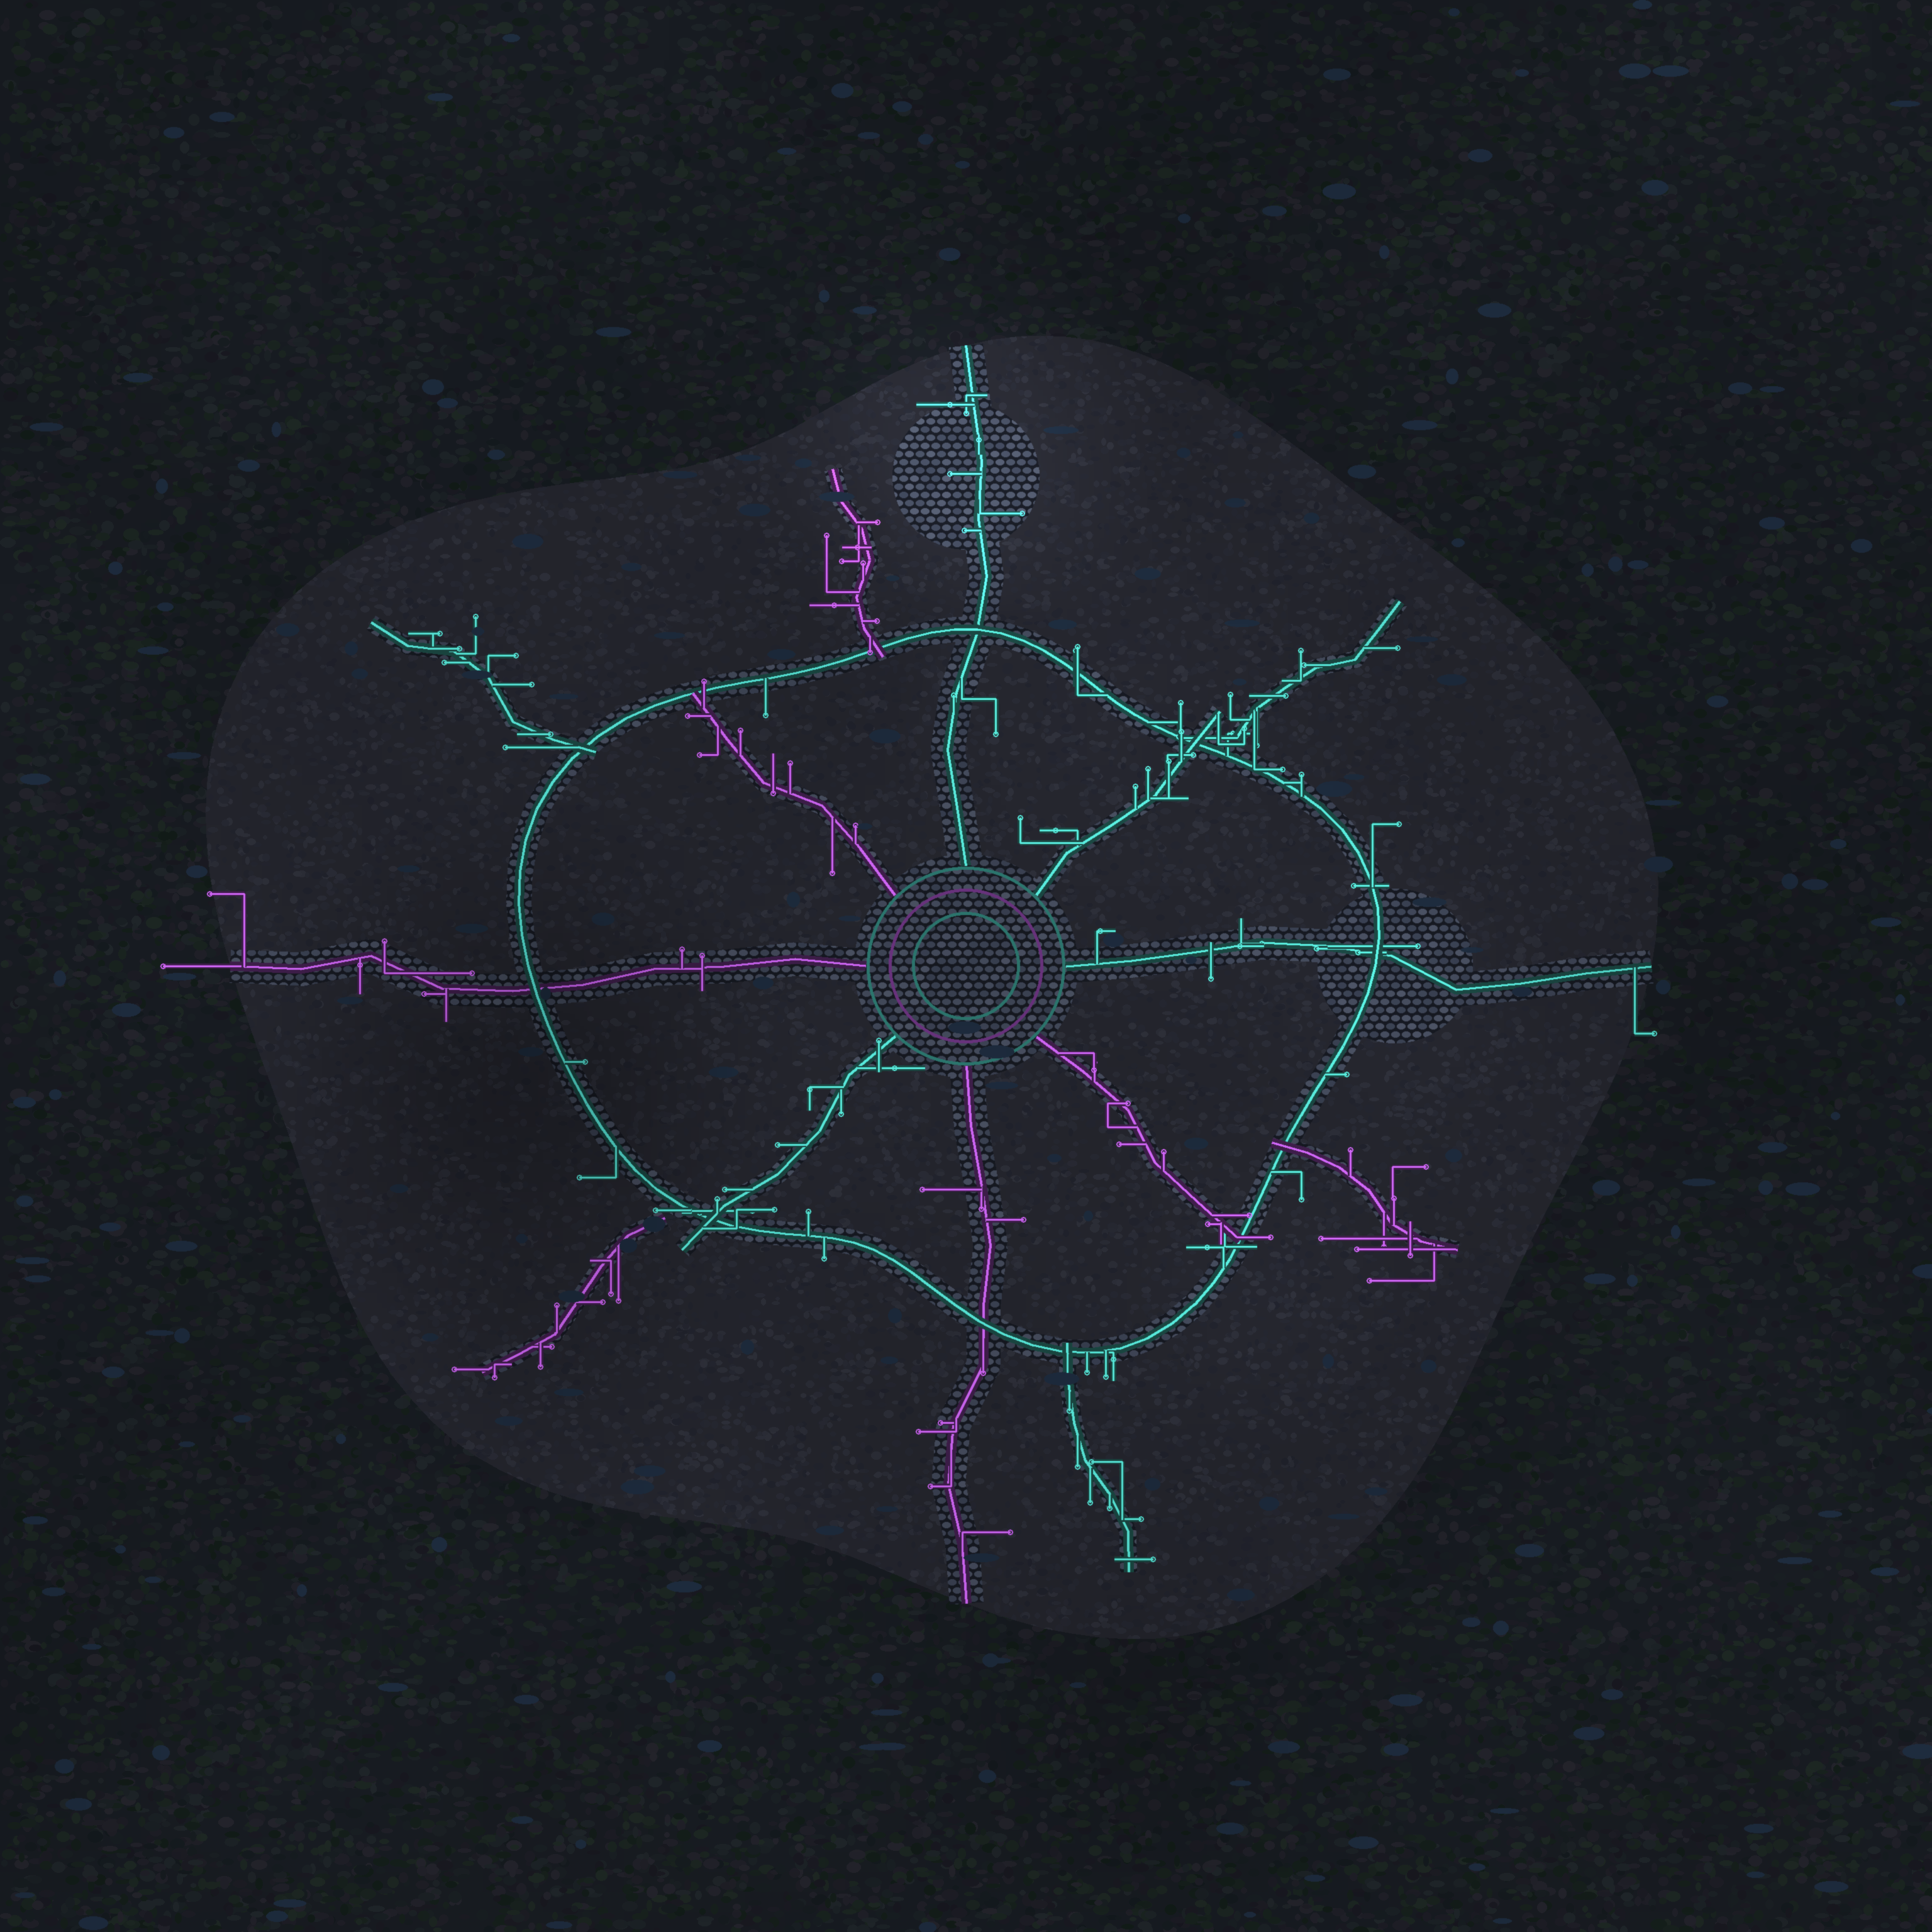
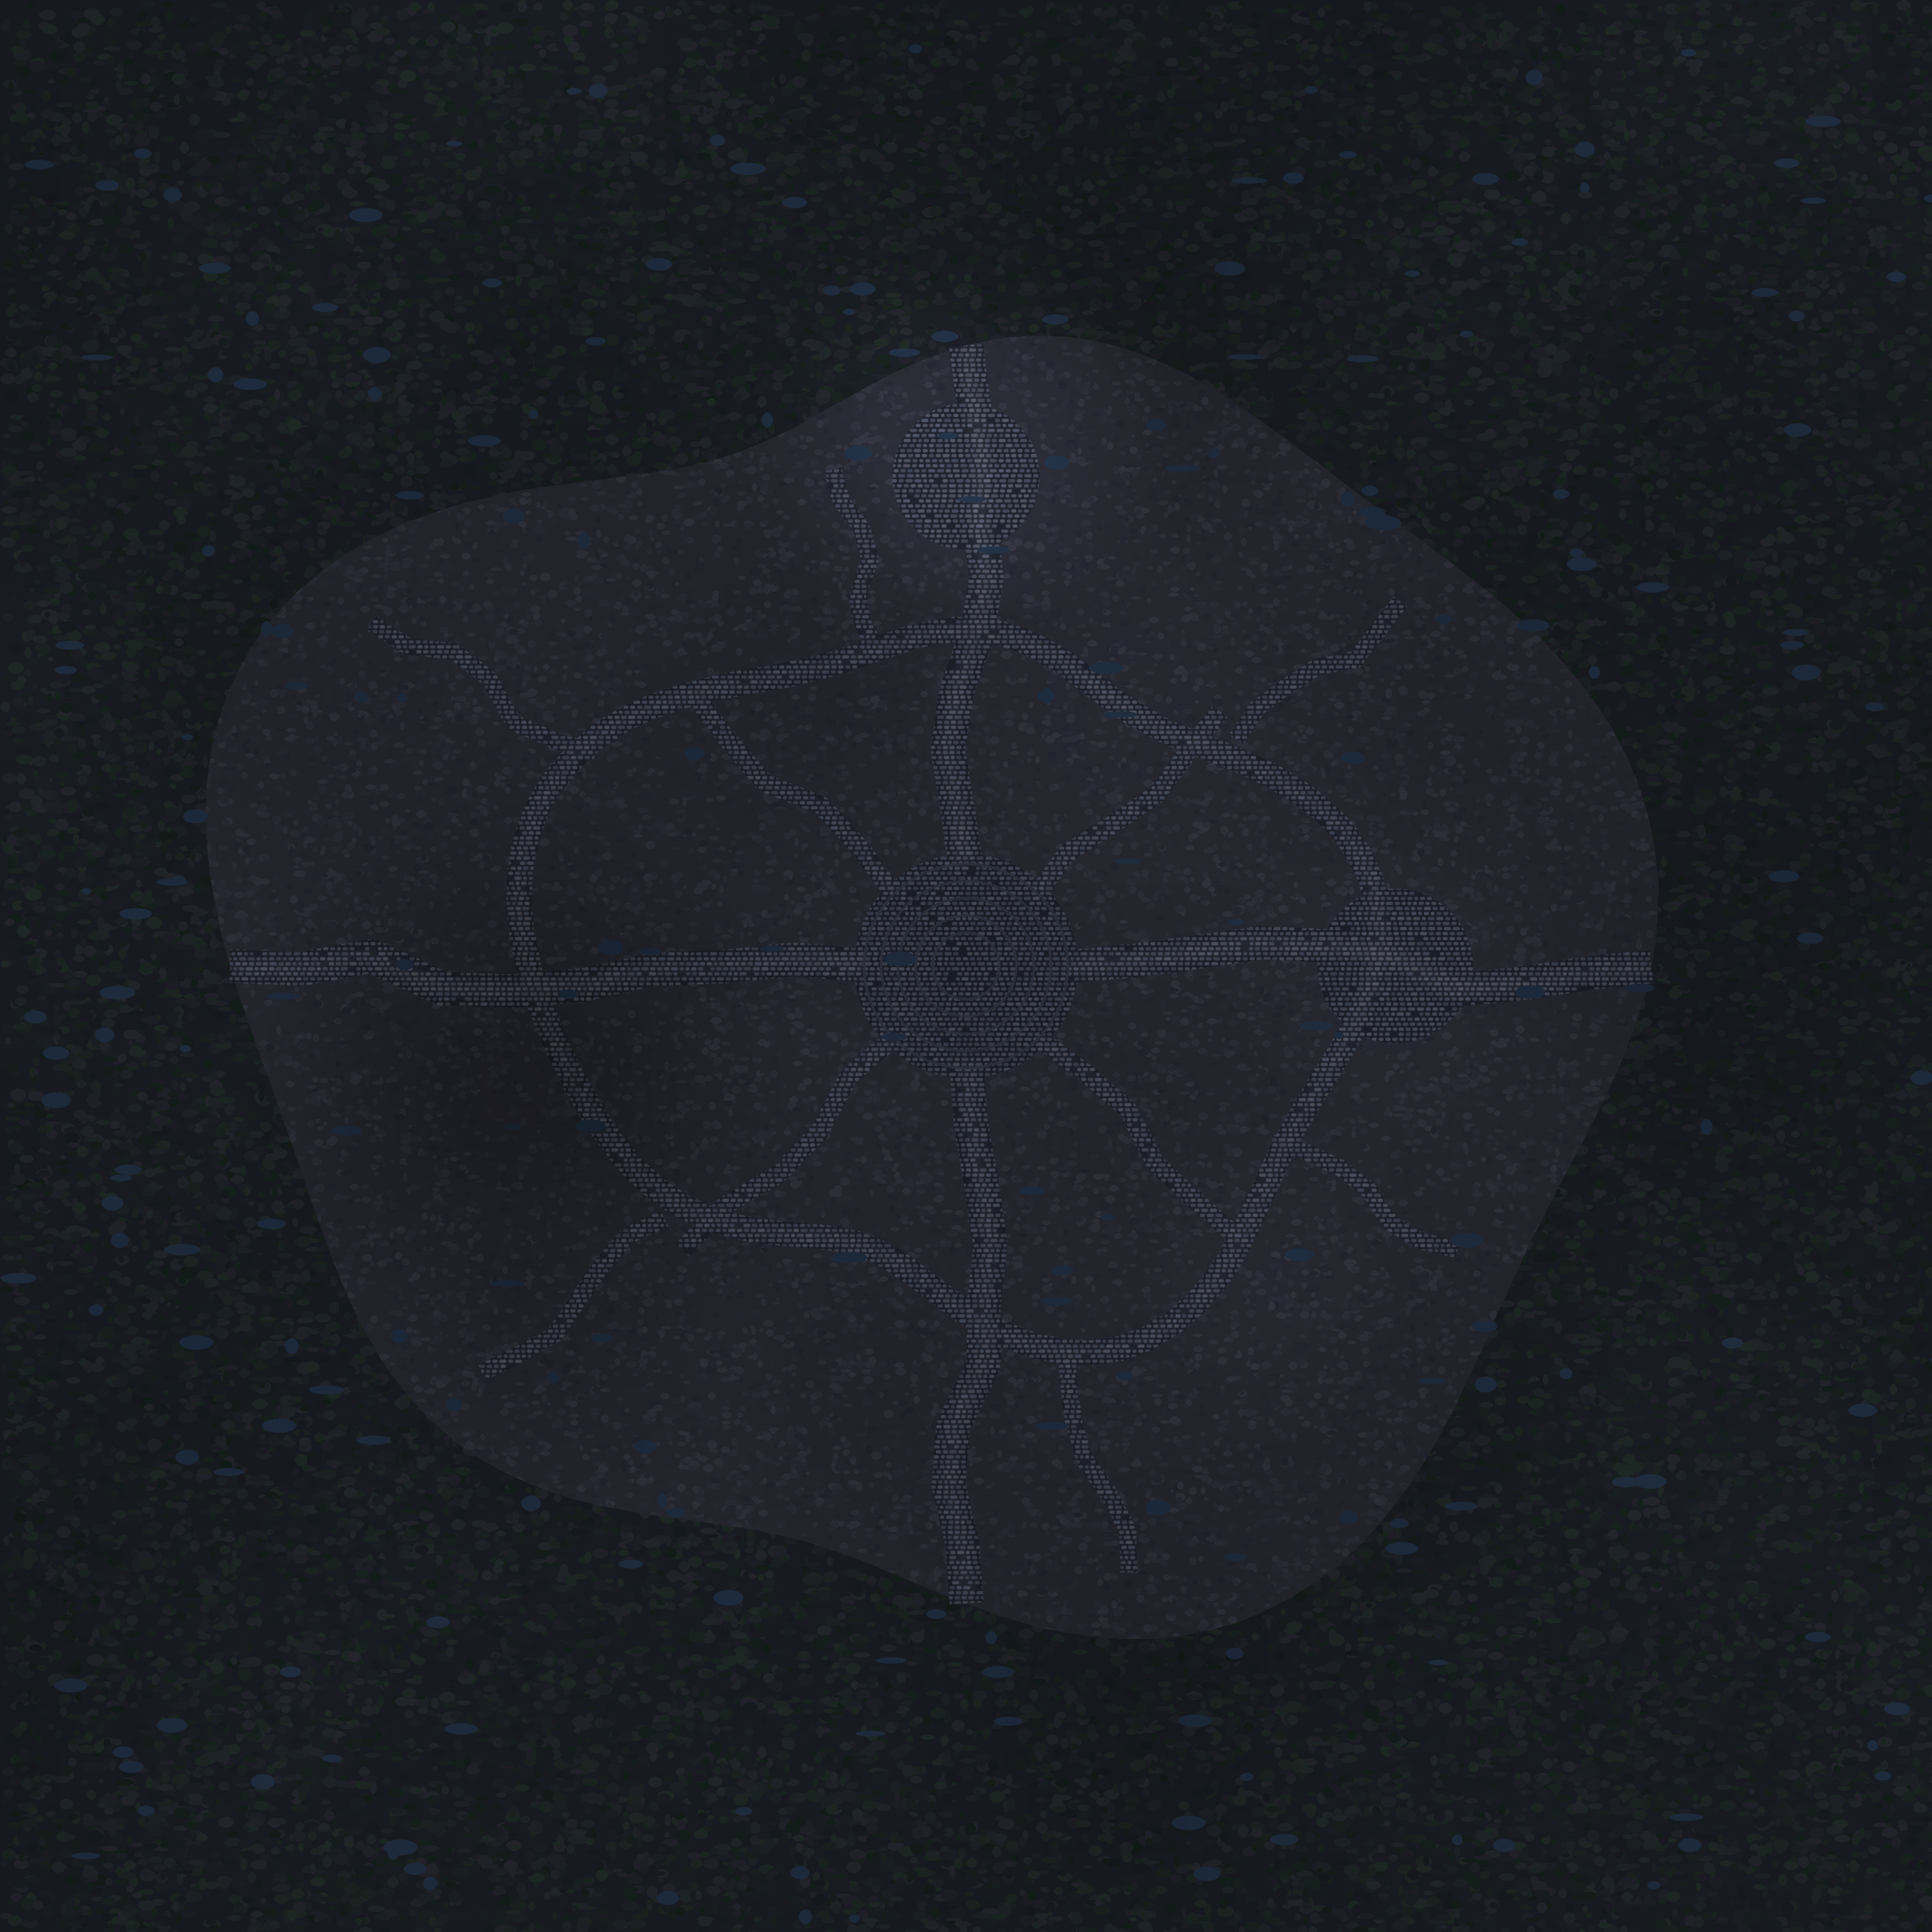
Nexarch v4 part 1: cobblestone-only streets, market kiosks, more junk
- Removed all neon circuit traces and glyph rings from the ground texture;
  streets are now offset stone courses with worn centerlines, plaza gets
  carved slab rings instead of glowing ones
- New kiosk piece from the style reference (timber booth, counter goods,
  big tilted circuit-panel awning with neon trim) - 5 placed around the
  market square; new e_waste prop (dead cases, cracked screen, flickering
  panel) scattered kerbside and next to server racks
- Denser clutter pass: 295 props, cables now span the ring road and
  avenues too, more barrels/crates, extra rubble in Dark Alley

Re-render of nexarch-bake.jpg lands in the follow-up commit.

https://claude.ai/code/session_01UFAE6W3Bz5GuggtQfrHjtr

diff --git a/scripts/blender/nexarch-kit/gen_layout.py b/scripts/blender/nexarch-kit/gen_layout.py
@@ -222,8 +222,12 @@ landmark("vault", 150, -150, face(150, -150, 0, 0), "FAMILY VAULT", 12)
 landmark("gate", -250, 0, math.radians(90), "DEEP MINES", 16)
 
 labels.append({"name": "MARKET", "x": 200, "z": 0})
-for (mx, mz) in [(184, -18), (216, -14), (186, 16), (214, 18), (200, -32), (228, 2)]:
-    place("stall", mx, mz, random.uniform(0, 2 * math.pi))
+for (mx, mz) in [(182, -20), (218, -16), (184, 18), (216, 20), (234, 2)]:
+    place("kiosk", mx, mz, face(mx, mz, 200, 0) + random.uniform(-0.2, 0.2),
+          sink=0.3)
+    blockers.append((mx, mz, 6.0))
+for (mx, mz) in [(200, -34), (170, 2)]:
+    place("stall", mx, mz, face(mx, mz, 200, 0))
     blockers.append((mx, mz, 6.5))
 
 labels.append({"name": "DARK ALLEY", "x": -200, "z": 200})
@@ -326,7 +330,8 @@ for _ in range(2600):
         n_fill += 1
 
 # ---------------------------------------------------------------- clutter
-SMALL = [("crate", 1.2, 3), ("barrel", 1.0, 3), ("sacks", 1.3, 2), ("rubble", 2.0, 1)]
+SMALL = [("crate", 1.2, 3), ("barrel", 1.0, 4), ("sacks", 1.3, 2),
+         ("rubble", 2.0, 1), ("e_waste", 1.8, 3)]
 
 
 def pick_small():
@@ -348,8 +353,8 @@ for r in ROADS:
         nx, nz = -uz, ux
         t = 0.0
         while t < segL:
-            t += random.uniform(18, 34)
-            if random.random() < 0.62:
+            t += random.uniform(12, 24)
+            if random.random() < 0.85:
                 name, rad = pick_small()
                 side = random.choice((-1, 1))
                 off = r["w"] / 2 + rad + random.uniform(0.2, 1.4)
@@ -416,11 +421,12 @@ for (hx, hz, hrot, hrad) in street_houses[64:116]:
         blockers.append((sx_, sz_, 1.2))
         n_clutter += 1
 
-# cables strung across the narrow alleys
-for r in ROADS[5:11]:
+# cables strung across streets (alleys often, ring + avenues sometimes)
+for ri, r in enumerate(ROADS[:11]):
     p = r["pts"]
+    prob = 0.8 if ri >= 5 else 0.25
     for i in range(1, len(p) - 1, 2):
-        if random.random() < 0.6:
+        if random.random() < prob:
             x0, z0 = p[i]
             x1, z1 = p[i + 1]
             L = math.hypot(x1 - x0, z1 - z0) or 1
@@ -428,8 +434,16 @@ for r in ROADS[5:11]:
             place("cable_span", x0, z0, tang + math.pi / 2, sink=0.0)
             n_clutter += 1
 
+# broken hardware next to some server racks
+for pl in [p for p in placements if p["p"] == "server_rack"][::3]:
+    ex, ez = pl["x"] + random.uniform(-3, 3), pl["z"] + random.uniform(-3, 3)
+    if road_dist(ex, ez) > 0.3 and not blocked(ex, ez, 1.6, 0.8):
+        place("e_waste", ex, ez, random.uniform(0, 6.28), sink=0.3)
+        blockers.append((ex, ez, 1.6))
+        n_clutter += 1
+
 # rubble + extra cables in the dark alley quarter
-for _ in range(8):
+for _ in range(12):
     x, z = -200 + random.uniform(-34, 34), 198 + random.uniform(-30, 30)
     if road_dist(x, z) > 1 and not blocked(x, z, 2.0, 0.8):
         place("rubble", x, z, random.uniform(0, 6.28), sink=0.4)
@@ -599,51 +613,40 @@ rd.ellipse((cx0 - PLAZA_R * px, cz0 - PLAZA_R * px,
 for (sx, sz, sr) in SQUARES:
     sx0, sz0 = to_px(sx, sz)
     rd.ellipse((sx0 - sr * px, sz0 - sr * px, sx0 + sr * px, sz0 + sr * px), fill=255)
-cobbles = Image.new("RGB", (TEX, TEX), (22, 25, 33))
+cobbles = Image.new("RGB", (TEX, TEX), (26, 29, 38))
 cd = ImageDraw.Draw(cobbles)
-sw, sh, row = 17, 13, 0
+sw, sh, row = 11, 8, 0
 y = 0
 while y < TEX + sh:
     x = -(sw // 2) if row % 2 else 0
     while x < TEX:
-        g = random.randint(-9, 11)
-        cd.ellipse((x + 1, y + 1, x + sw - 1, y + sh - 1),
-                   fill=(64 + g, 71 + g, 88 + g), outline=(26, 29, 38))
-        x += sw
+        w = sw + random.choice((0, 0, 0, 3, -2))     # irregular stone widths
+        if random.random() < 0.03:                   # missing stone
+            x += w
+            continue
+        g = random.randint(-7, 9)
+        warm = random.randint(0, 4)
+        cd.rounded_rectangle((x + 1, y + 1, x + w - 1, y + sh - 1), radius=3,
+                             fill=(58 + g + warm, 64 + g, 80 + g - warm),
+                             outline=(30, 33, 42))
+        x += w
     y += sh
     row += 1
+# worn lighter patches along the middle of the lanes
+wear = Image.new("L", (TEX, TEX), 0)
+wd_ = ImageDraw.Draw(wear)
+for r in ROADS:
+    wd_.line([to_px(*p) for p in r["pts"]], fill=46,
+             width=int(r["w"] * px * 0.45), joint="curve")
+wear = wear.filter(ImageFilter.GaussianBlur(8))
+cob = np.asarray(cobbles).astype(np.int16) + np.asarray(wear)[..., None] // 4
+cobbles = Image.fromarray(np.clip(cob, 0, 255).astype(np.uint8))
 img.paste(cobbles, (0, 0), road_mask)
-
-# neon circuit traces along streets
-def trace_along(pts, color, n_branch=14):
-    glow = tuple(int(c * 0.30) for c in color)
-    pp = [to_px(*p) for p in pts]
-    d.line(pp, fill=glow, width=16, joint="curve")
-    d.line(pp, fill=color, width=4, joint="curve")
-    for _ in range(n_branch):
-        i = random.randrange(len(pts) - 1)
-        t = random.random()
-        bx = pts[i][0] + (pts[i + 1][0] - pts[i][0]) * t
-        bz = pts[i][1] + (pts[i + 1][1] - pts[i][1]) * t
-        path = [(bx, bz)]
-        for _ in range(random.randint(1, 3)):
-            axis = random.random() < 0.5
-            step = random.choice([-1, 1]) * random.uniform(6, 18)
-            bx, bz = (bx + step, bz) if axis else (bx, bz + step)
-            path.append((bx, bz))
-        ppp = [to_px(*p) for p in path]
-        d.line(ppp, fill=glow, width=8)
-        d.line(ppp, fill=color, width=3)
-        ex, ey = ppp[-1]
-        d.ellipse((ex - 4, ey - 4, ex + 4, ey + 4), outline=color, width=2)
-
-
-for i, r in enumerate(ROADS):
-    trace_along(r["pts"], CYAN if i % 2 == 0 else MAGENTA,
-                n_branch=22 if len(r["pts"]) > 12 else 8)
-for rr, col in ((46, CYAN), (36, MAGENTA), (25, CYAN)):
+# plaza: concentric slab rings (carved stone, not neon)
+for rr in (48, 40, 32, 24, 16):
     d.ellipse((cx0 - rr * px, cz0 - rr * px, cx0 + rr * px, cz0 + rr * px),
-              outline=tuple(int(c * 0.5) for c in col), width=5)
+              outline=(44, 48, 60), width=4)
+
 # puddles
 for _ in range(220):
     x, y = random.randrange(TEX), random.randrange(TEX)

diff --git a/scripts/blender/nexarch-kit/build_kit.py b/scripts/blender/nexarch-kit/build_kit.py
@@ -622,6 +622,42 @@ def server_rack():
     return p.done()
 
 
+def kiosk():
+    """Market kiosk from the style ref: timber booth, goods on the counter,
+    big tilted circuit-panel awning with a neon trim strip."""
+    p = Piece("kiosk")
+    p.box("timber", 0, 0, -2.5, 8.0, 6.2, 2.7)           # foundation pad
+    p.box("timber", 0, 2.6, 0, 8.4, 0.7, 4.6)            # back wall
+    p.box("timber", -3.9, 0.6, 0, 0.6, 4.6, 4.6)         # side walls
+    p.box("timber", 3.9, 0.6, 0, 0.6, 4.6, 4.6)
+    p.box("timber", 0, -2.4, 0, 8.4, 1.3, 2.3)           # counter
+    for sx in (-1, 1):                                   # front posts
+        p.box("timber", sx * 3.9, -2.7, 0, 0.55, 0.55, 5.6)
+    p.roof_panel(0, -0.4, 6.3, 9.6, 7.6, math.radians(22))   # big panel awning
+    p.glow_quad("neonMdim", 0, -3.6, 5.0, 8.8, 0.5)      # neon trim strip
+    p.box("timber", -2.2, -2.3, 2.3, 1.5, 1.5, 1.5)      # goods
+    p.cylinder("timber", 2.0, -2.2, 2.3, 0.7, 1.2, seg=8)
+    p.box("metal", 0.2, -2.5, 2.3, 1.0, 0.8, 0.7)
+    p.box("metal", 0, 2.2, 4.7, 0.7, 0.7, 0.8)           # roof unit
+    p.glow_quad("glowO", 0, -0.5, 4.55, 0.8, 0.7)        # hanging lamp
+    return p.done()
+
+
+def e_waste():
+    """Broken hardware dumped in the street: dead cases, a cracked screen."""
+    p = Piece("e_waste")
+    rnd = __import__("random").Random(31)
+    for _ in range(5):
+        w = rnd.uniform(0.6, 1.3)
+        p.box("metal", rnd.uniform(-1.4, 1.4), rnd.uniform(-1.0, 1.0),
+              rnd.uniform(-0.2, 0.3), w, w * rnd.uniform(0.6, 1.1),
+              rnd.uniform(0.4, 0.9), rz=rnd.uniform(0, 3.1))
+    p.box("metal", -0.6, -0.4, 0.7, 1.6, 0.18, 1.1, rz=0.5)   # dead screen
+    p.glow_quad("neonCdim", 0.9, -1.05, 0.25, 0.8, 0.35)      # one still flickers
+    p.cylinder("metal", 1.5, 0.8, 0, 0.25, 1.3, seg=6)        # bent conduit
+    return p.done()
+
+
 PIECES = [house_small(), house_med(), house_tall(), tower_round(), cathedral(),
           arena(), wall_seg(), wall_tower(), gate(),
           monolith("monolith_c", "winC", "glowC"),
@@ -629,7 +665,7 @@ PIECES = [house_small(), house_med(), house_tall(), tower_round(), cathedral(),
           stall(), fountain_core(), vault(), foundry(), lamp(),
           crate(), barrel(), sacks(), cart(), banner_pole(), banner_pole_c(),
           holo_sign(), cable_span(), rubble(), brazier(), bush(), carpet(),
-          carpet_c(), house_jetty(), server_rack()]
+          carpet_c(), house_jetty(), server_rack(), kiosk(), e_waste()]
 
 # ---------------------------------------------------------------- export
 bpy.ops.object.select_all(action="DESELECT")